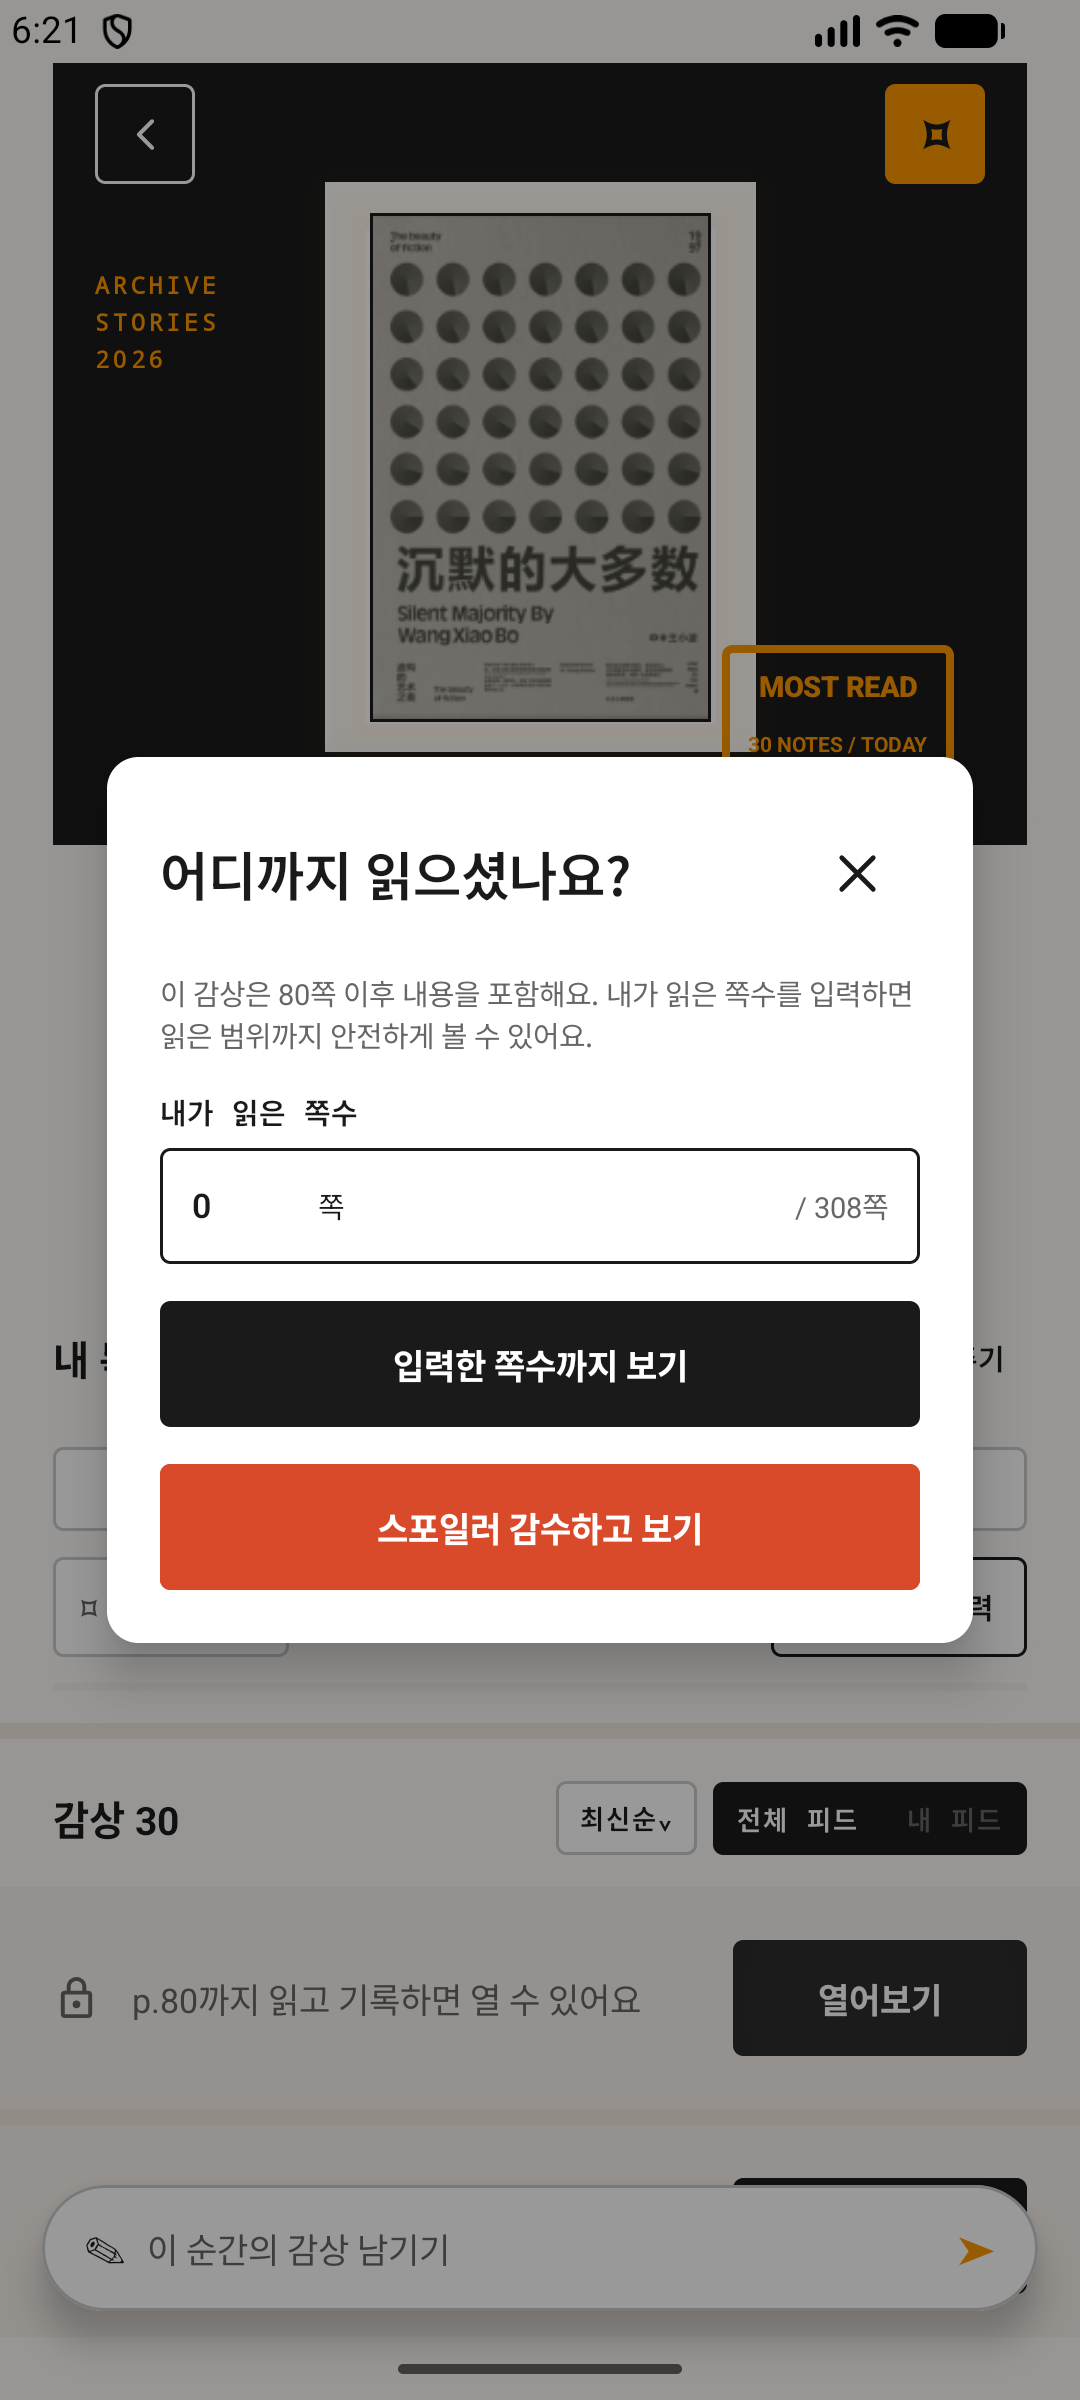
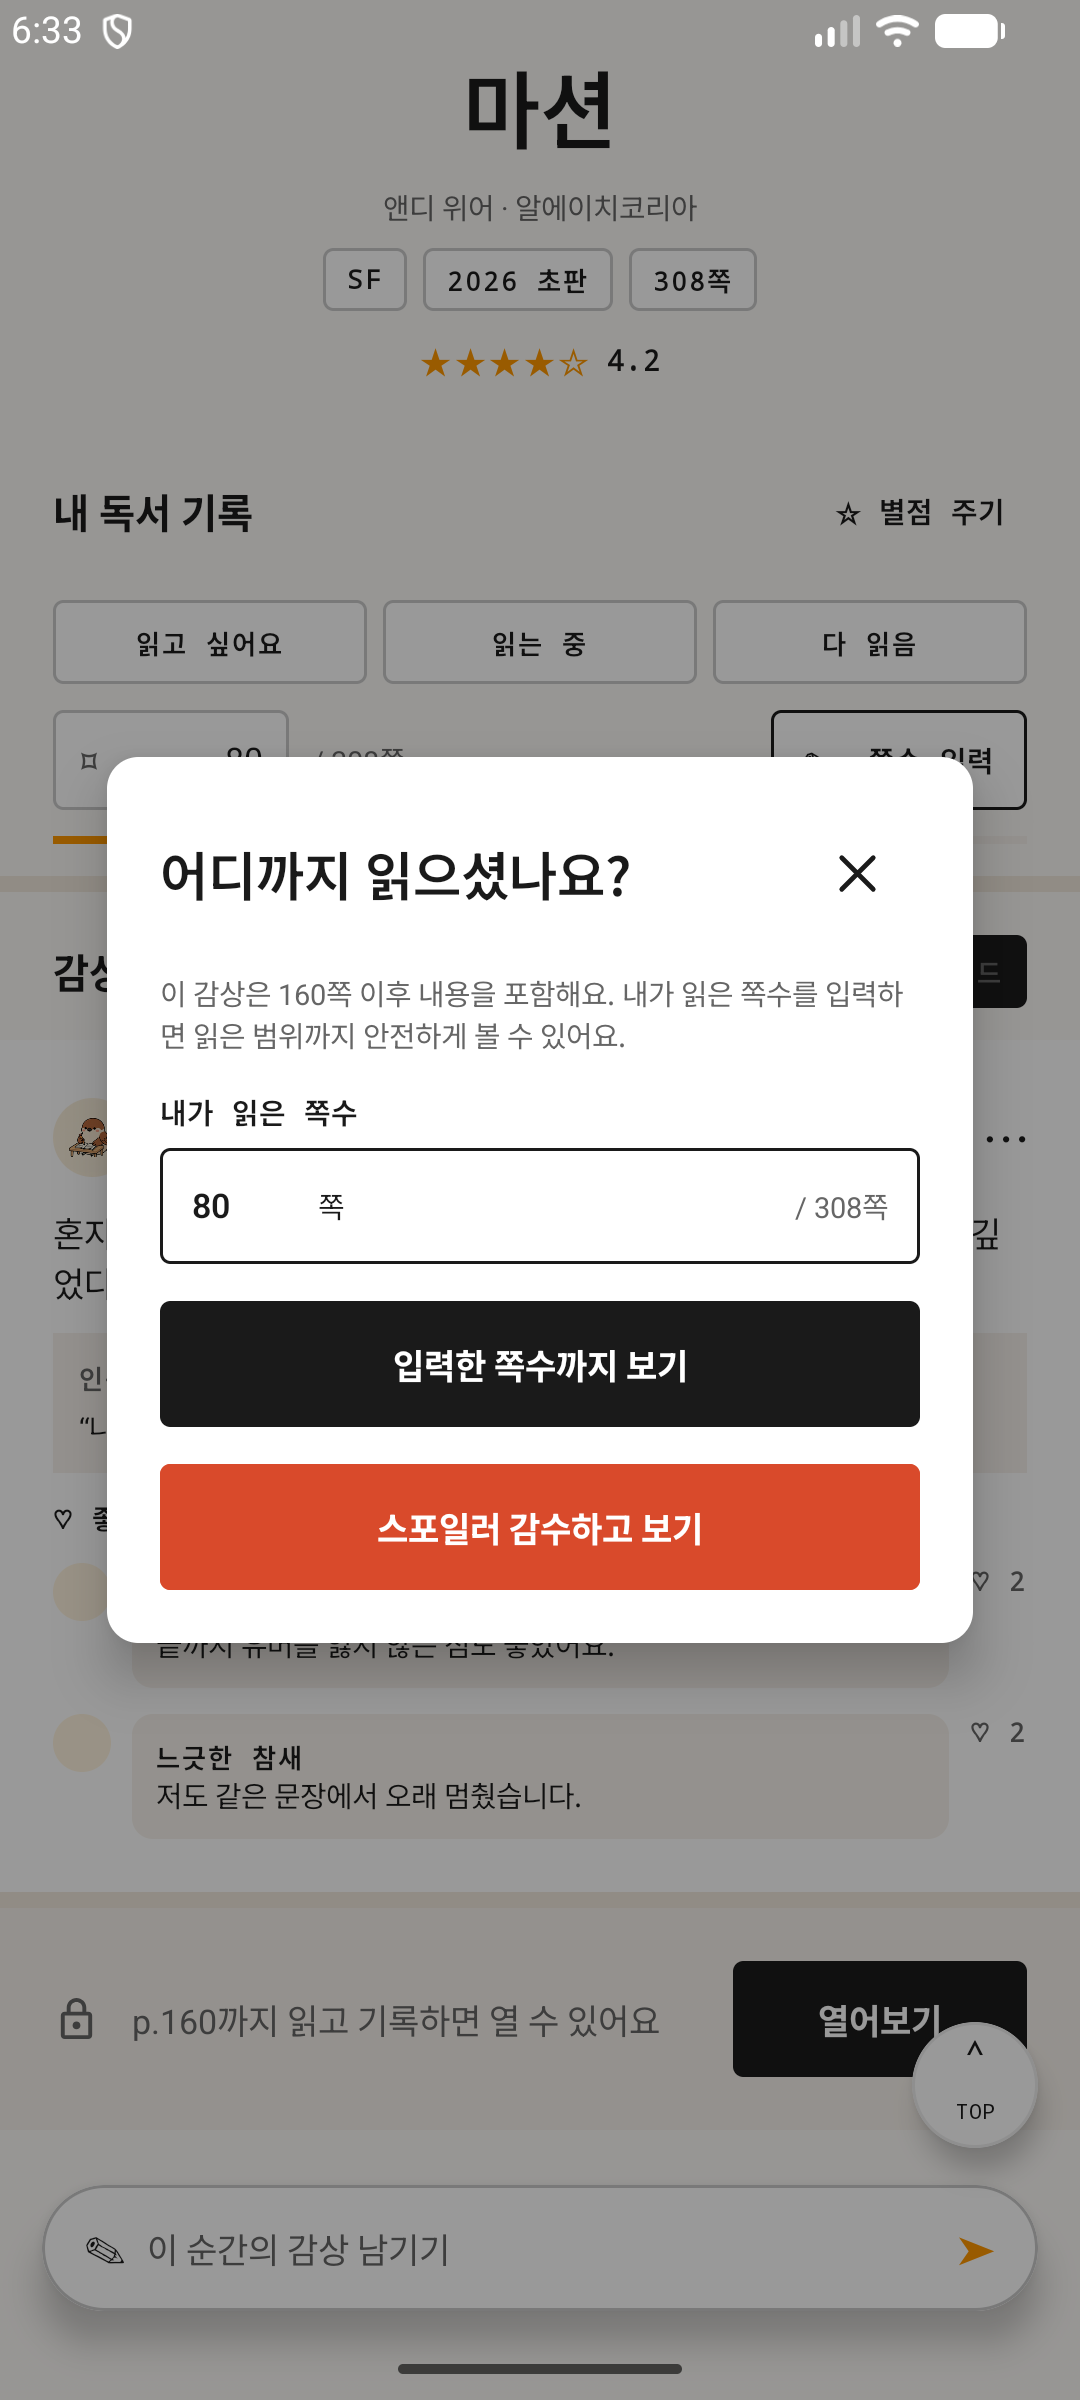
fix(android): 마션 감상 진도를 디자인과 맞춤

diff --git a/android/app/src/main/java/com/chamsae/chaekchaek/ui/bookdetail/BookDetailScreen.kt b/android/app/src/main/java/com/chamsae/chaekchaek/ui/bookdetail/BookDetailScreen.kt
@@ -176,7 +176,8 @@ fun BookDetailScreen(
   var showReflectionSheet by rememberSaveable { mutableStateOf(false) }
   var pendingReviewPage by rememberSaveable(book.id) { mutableStateOf<Int?>(null) }
   var previewedThroughPage by rememberSaveable(book.id) { mutableIntStateOf(-1) }
-  val currentPage = maxOf(archivedBook?.currentPage ?: 0, previewedThroughPage)
+  val recordedCurrentPage = archivedBook?.currentPage ?: book.currentPage
+  val currentPage = maxOf(recordedCurrentPage, previewedThroughPage)
 
   Box(
     modifier = modifier.fillMaxSize().background(MaterialTheme.colorScheme.background).navigationBarsPadding(),
@@ -188,7 +189,7 @@ fun BookDetailScreen(
     ) {
       item { ArchiveStage(book, onBack) }
       item { BookSummary(book) }
-      item { ReadingRecord(book, archivedBook, onRate) }
+      item { ReadingRecord(book, archivedBook, recordedCurrentPage, onRate) }
       item { Box(Modifier.fillMaxWidth().height(6.dp).background(ChaekBand)) }
       item {
         ReviewsSection(
@@ -216,7 +217,7 @@ fun BookDetailScreen(
 
     pendingReviewPage?.let { spoilerPage ->
       SpoilerGuardDialog(
-        currentPage = archivedBook?.currentPage ?: 0,
+        currentPage = recordedCurrentPage,
         spoilerPage = spoilerPage,
         totalPages = book.totalPages,
         onDismiss = { pendingReviewPage = null },
@@ -404,7 +405,12 @@ private fun MetaChip(label: String) {
 }
 
 @Composable
-private fun ReadingRecord(book: BookDetailArgs, archivedBook: ArchivedBook?, onRate: () -> Unit) {
+private fun ReadingRecord(
+  book: BookDetailArgs,
+  archivedBook: ArchivedBook?,
+  currentPage: Int,
+  onRate: () -> Unit,
+) {
   Column(
     modifier = Modifier.fillMaxWidth().padding(horizontal = 20.dp, vertical = 12.dp),
     verticalArrangement = Arrangement.spacedBy(10.dp),
@@ -445,7 +451,7 @@ private fun ReadingRecord(book: BookDetailArgs, archivedBook: ArchivedBook?, onR
           horizontalArrangement = Arrangement.SpaceBetween,
         ) {
           Text("⌑", color = MaterialTheme.colorScheme.onSurfaceVariant)
-          Text("${archivedBook?.currentPage ?: 0}", style = MaterialTheme.typography.bodyMedium)
+          Text("$currentPage", style = MaterialTheme.typography.bodyMedium)
         }
       }
       Text(
@@ -469,7 +475,9 @@ private fun ReadingRecord(book: BookDetailArgs, archivedBook: ArchivedBook?, onR
     Box(Modifier.fillMaxWidth().height(3.dp).background(MaterialTheme.colorScheme.surfaceVariant)) {
       Box(
         Modifier
-          .fillMaxWidth(archivedBook?.progressRatio?.coerceIn(0f, 1f) ?: 0f)
+          .fillMaxWidth(
+            if (book.totalPages == 0) 0f else (currentPage.toFloat() / book.totalPages).coerceIn(0f, 1f),
+          )
           .height(3.dp)
           .background(ChaekAccent),
       )

diff --git a/android/app/src/main/java/com/chamsae/chaekchaek/ui/bookdetail/BookDetailArgs.kt b/android/app/src/main/java/com/chamsae/chaekchaek/ui/bookdetail/BookDetailArgs.kt
@@ -18,6 +18,7 @@ data class BookDetailArgs(
   val year: String = "",
   val category: String = "",
   val totalPages: Int = 0,
+  val currentPage: Int = 0,
   val coverUrl: String = "",
   val coverId: String = "",
 )
@@ -43,6 +44,7 @@ internal fun ArchivedBook.toBookDetailArgs(): BookDetailArgs =
     year = year,
     category = category,
     totalPages = totalPages,
+    currentPage = currentPage,
     coverUrl = coverUrl,
   )
 
@@ -56,6 +58,7 @@ internal fun TrendingBookUiModel.toBookDetailArgs(): BookDetailArgs =
       year = "2026",
       category = "SF",
       totalPages = 308,
+      currentPage = 80,
       coverId = coverId,
     )
   } else {
@@ -72,6 +75,7 @@ internal fun ReadingBookUiModel.toBookDetailArgs(): BookDetailArgs =
   BookDetailArgs(
     id = coverId,
     title = title,
+    currentPage = currentPage,
     totalPages = totalPages,
     coverId = coverId,
   )

diff --git a/android/app/src/test/java/com/chamsae/chaekchaek/ui/bookdetail/BookDetailArgsTest.kt b/android/app/src/test/java/com/chamsae/chaekchaek/ui/bookdetail/BookDetailArgsTest.kt
@@ -41,10 +41,14 @@ class BookDetailArgsTest {
         year = "2026",
         coverUrl = "",
         note = "",
+        currentPage = 80,
         totalPages = 308,
       )
 
-    assertEquals("saved-book", archivedBook.toBookDetailArgs().id)
+    val args = archivedBook.toBookDetailArgs()
+
+    assertEquals("saved-book", args.id)
+    assertEquals(80, args.currentPage)
   }
 
   @Test
@@ -53,6 +57,7 @@ class BookDetailArgsTest {
 
     assertEquals("앤디 위어", args.creator)
     assertEquals("SF", args.category)
+    assertEquals(80, args.currentPage)
     assertEquals(308, args.totalPages)
   }
 }
